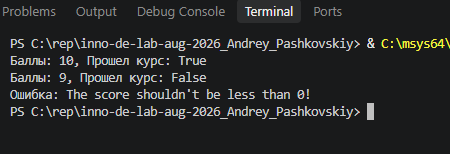
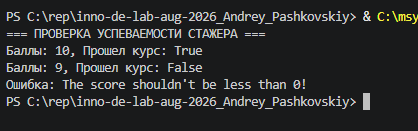
Add title in task_1. Fix Cohort init and refactor class import in task_2

Changed region(s): [[0.0, 0.2137, 1.0, 0.855], [0.0, 0.0305, 1.0, 0.1832]]

diff --git a/Python_OOP_9/task_2.py b/Python_OOP_9/task_2.py
@@ -1,58 +1,4 @@
-class Trainee:
-    def __init__(
-        self, name: str, surname: str, score: int = 0, passing_grade: int = 10
-    ):
-        """Initialisation a trainee in the educational platform
-        Args:
-            name (str): The first name of the trainee
-            surname (str): The last name of the trainee
-            score (int): Initial score. Default to 0
-            passing_grade (int): Required score to pass the course. 
-            Default to 10
-        """
-        self.name = name
-        self.surname = surname
-        self.__score = score
-        self.passing_grade = passing_grade
-
-    @property
-    def score(self) -> int:
-        """The current score"""
-        return self.__score
-
-    @score.setter
-    def score(self, value: int):
-        """Sets the trainee score
-        
-        Args: 
-            value (int): The target score value to be set
-        """
-        if not isinstance(value, int):
-            raise ValueError(f"Expected value of type int, got {type(value)}")
-        elif value < 0:
-            raise ValueError("The score shouldn't be less than 0!")
-        else: 
-            self.__score = value
-
-    def do_homework(self) -> None:
-        """Increases score by 1"""
-        self.score += 1
-
-    def miss_homework(self) -> None:
-        """Decreases score by 1"""
-        self.score -= 1
-
-    def visit_lecture(self) -> None:
-        """Increases score by 1"""
-        self.score += 1
-
-    def miss_lecture(self) -> None:
-        """Decreases score by 1"""
-        self.score -= 1
-
-    def is_passing(self) -> bool:
-        """Compares the current score with the required score to pass the course"""
-        return self.score >= self.passing_grade
+from task_1 import Trainee
 
 
 class HardworkingTrainee(Trainee):
@@ -68,15 +14,15 @@ class AuditTrainee(Trainee):
 
 
 class Cohort:
-    def __init__(self, title: str, trainees: list[Trainee] = []):
-        """Initialisation a student group
+    def __init__(self, title: str, trainees: list[Trainee] | None = None):
+        """Initialisation of a student group
             
         Args:
-            title (str): Title of the froup
+            title (str): Title of the group
             trainees (list[Trainee]): List of group members. Default to []
         """
         self.title = title
-        self.trainees = trainees
+        self.trainees = trainees if trainees is not None else []
 
     def add_trainee(self, trainee: Trainee) -> None:
         """Add a new trainee into the group"""
@@ -90,7 +36,6 @@ class Cohort:
     def get_passing_students(self) -> list[Trainee]:
         """Makes list with trainee who pass the course"""
         return [trainee for trainee in self.trainees if trainee.is_passing()]
-
 
 
 # 1. Создаем учащихся разных типов
@@ -122,3 +67,4 @@ print("\nУспешно зачислены на следующий модуль:
 print()
 for student in passing_students:
     print(f"- {student.name} {student.surname}\n")
+    

diff --git a/Python_OOP_9/task_1.py b/Python_OOP_9/task_1.py
@@ -58,6 +58,8 @@ class Trainee:
 # 1. Создание стажера с начальным баллом 9 и проходным баллом 10
 trainee = Trainee(name="Иван", surname="Иванов", score=9, passing_grade=10)
 
+print("=== ПРОВЕРКА УСПЕВАЕМОСТИ СТАЖЕРА ===")
+
 # 2. Выполнение домашнего задания и проверка статуса
 trainee.do_homework()
 print(f"Баллы: {trainee.score}, Прошел курс: {trainee.is_passing()}")
